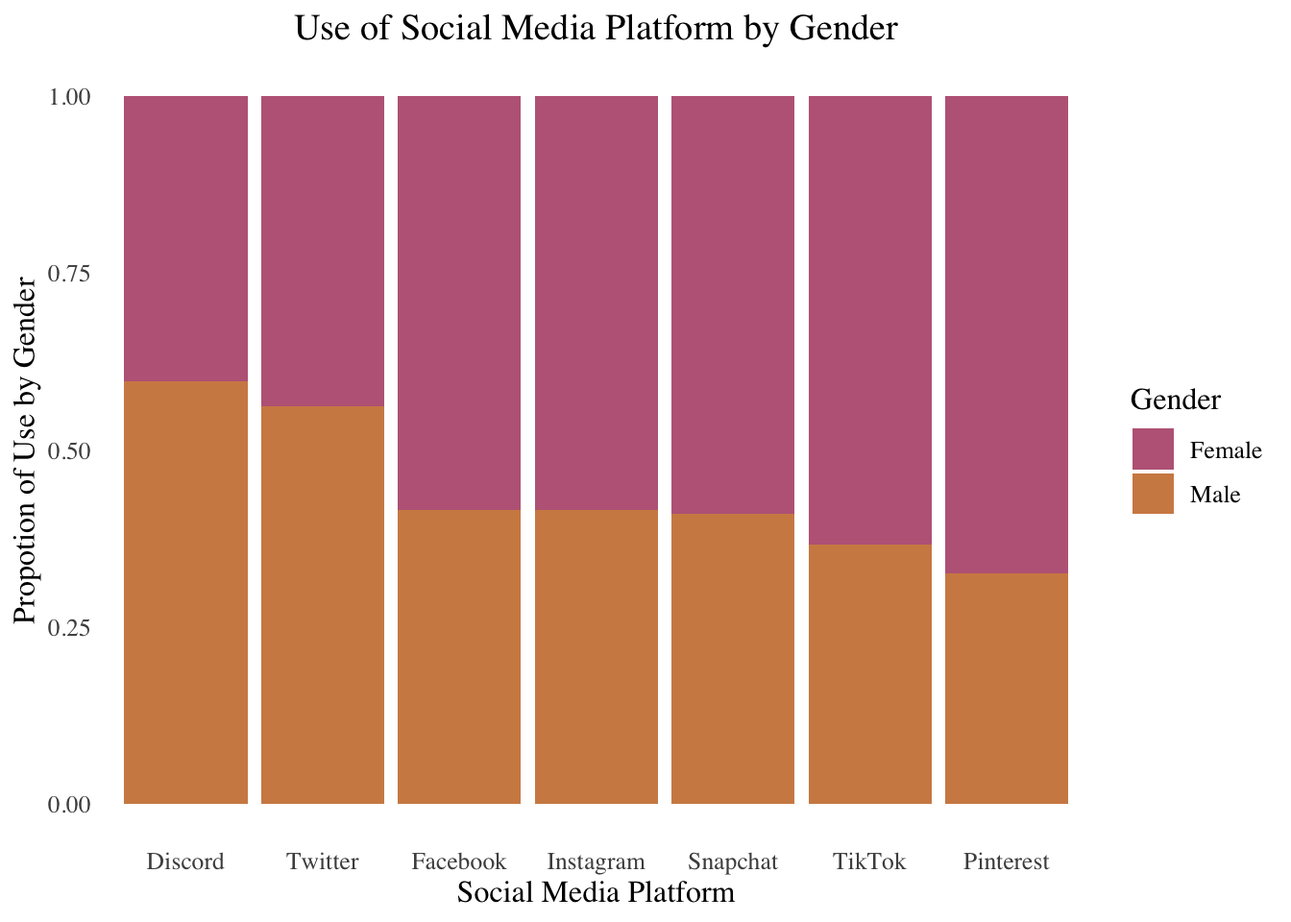
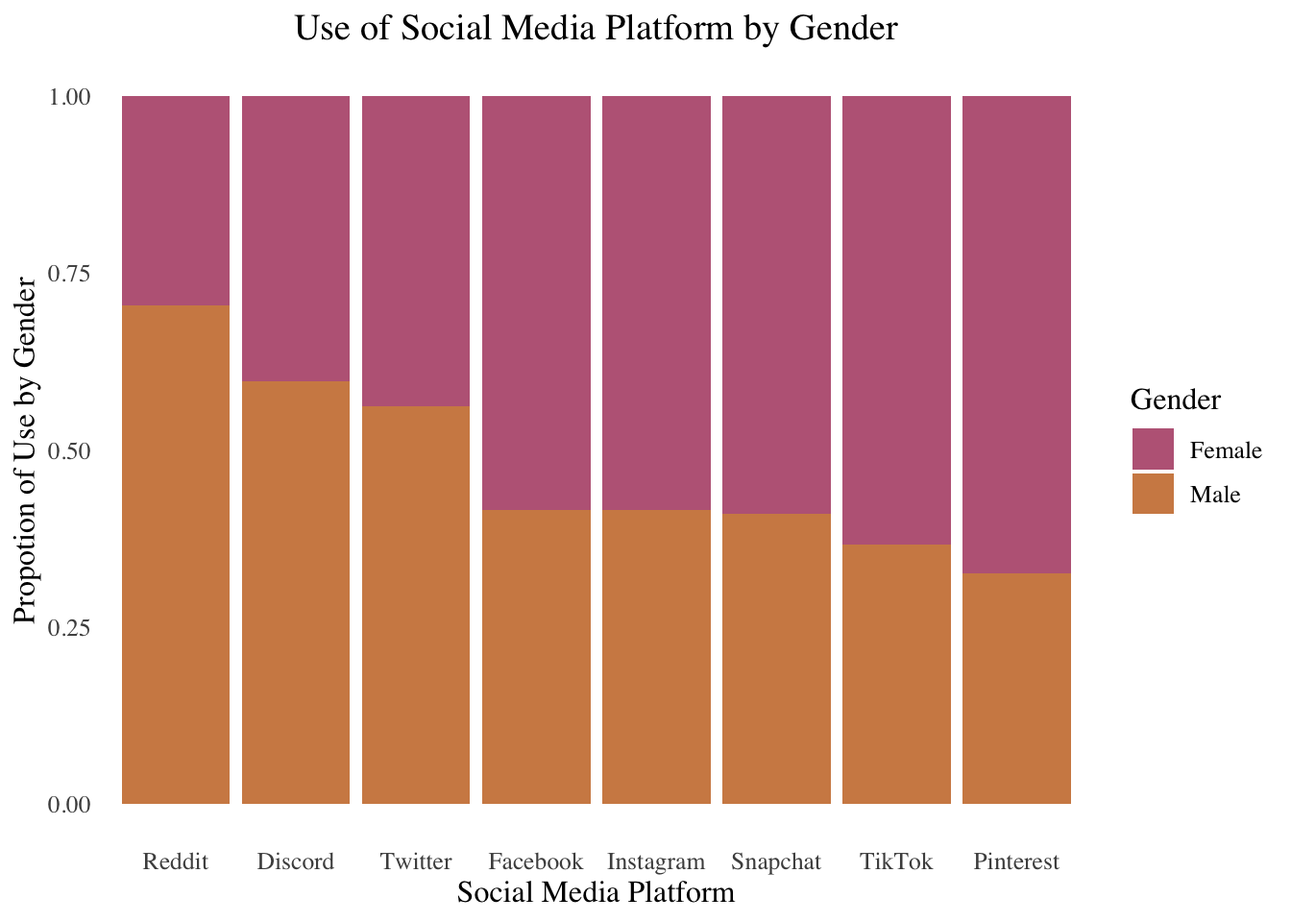
added_reddit

diff --git a/docs/EDA.html b/docs/EDA.html
@@ -283,18 +283,19 @@ dbl (13): 1. What is your age?, 9. How often do you find yourself using Soci...
 <span id="cb7-8"><a href="#cb7-8"></a>  <span class="fu">mutate</span>(<span class="at">yt=</span><span class="fu">str_detect</span>(App, <span class="st">'YouTube'</span>))<span class="sc">%&gt;%</span></span>
 <span id="cb7-9"><a href="#cb7-9"></a>  <span class="fu">mutate</span>(<span class="at">sc=</span><span class="fu">str_detect</span>(App, <span class="st">'Snapchat'</span>))<span class="sc">%&gt;%</span></span>
 <span id="cb7-10"><a href="#cb7-10"></a>  <span class="fu">mutate</span>(<span class="at">pi=</span><span class="fu">str_detect</span>(App, <span class="st">'Pinterest'</span>))<span class="sc">%&gt;%</span></span>
-<span id="cb7-11"><a href="#cb7-11"></a>  <span class="fu">group_by</span>(Gender)<span class="sc">%&gt;%</span></span>
-<span id="cb7-12"><a href="#cb7-12"></a>  <span class="fu">summarize</span>(<span class="at">Instagram=</span><span class="fu">sum</span>(ig), <span class="at">Facebook=</span><span class="fu">sum</span>(fb), <span class="at">Twitter=</span><span class="fu">sum</span>(tw), <span class="at">TikTok=</span><span class="fu">sum</span>(tt), <span class="at">Discord=</span><span class="fu">sum</span>(dc), <span class="at">Snapchat=</span><span class="fu">sum</span>(sc), <span class="at">Pinterest=</span><span class="fu">sum</span>(pi))<span class="sc">%&gt;%</span></span>
-<span id="cb7-13"><a href="#cb7-13"></a>  <span class="fu">filter</span>(Gender <span class="sc">%in%</span> <span class="fu">c</span>(<span class="st">'Female'</span>, <span class="st">'Male'</span>))<span class="sc">%&gt;%</span></span>
-<span id="cb7-14"><a href="#cb7-14"></a>  <span class="fu">pivot_longer</span>(<span class="at">cols =</span> <span class="sc">-</span>Gender, <span class="at">names_to =</span> <span class="st">"Platform"</span>, <span class="at">values_to =</span> <span class="st">"count"</span>)<span class="sc">%&gt;%</span></span>
-<span id="cb7-15"><a href="#cb7-15"></a>  <span class="fu">mutate</span>(<span class="at">Platform =</span> <span class="fu">fct_relevel</span>(Platform, <span class="fu">c</span>( <span class="st">'Discord'</span>, <span class="st">'Twitter'</span>,  <span class="st">'Facebook'</span>, <span class="st">'Instagram'</span>, <span class="st">'Snapchat'</span>, <span class="st">'TikTok'</span>,<span class="st">'Pinterest'</span>)))<span class="sc">%&gt;%</span></span>
-<span id="cb7-16"><a href="#cb7-16"></a>  <span class="fu">ggplot</span>(<span class="fu">aes</span>(<span class="at">x=</span>Platform, <span class="at">fill=</span>Gender, <span class="at">y=</span>count))<span class="sc">+</span></span>
-<span id="cb7-17"><a href="#cb7-17"></a>  <span class="fu">geom_bar</span>(<span class="at">stat =</span> <span class="st">"identity"</span>, <span class="at">position=</span><span class="st">'fill'</span> , <span class="at">alpha=</span><span class="fl">0.85</span>)<span class="sc">+</span></span>
-<span id="cb7-18"><a href="#cb7-18"></a>  <span class="fu">labs</span>(<span class="at">x=</span><span class="st">'Social Media Platform'</span>, <span class="at">y=</span><span class="st">'Propotion of Use by Gender'</span>, <span class="at">title=</span><span class="st">'Use of Social Media Platform by Gender'</span>)<span class="sc">+</span></span>
-<span id="cb7-19"><a href="#cb7-19"></a>  <span class="fu">theme_minimal</span>()<span class="sc">+</span></span>
-<span id="cb7-20"><a href="#cb7-20"></a>  <span class="fu">scale_fill_manual</span>(<span class="at">values =</span> <span class="fu">c</span>(<span class="st">"Female"</span> <span class="ot">=</span> <span class="st">"#B0476E"</span>, <span class="st">"Male"</span> <span class="ot">=</span> <span class="st">"#C9732A"</span>)) <span class="sc">+</span></span>
-<span id="cb7-21"><a href="#cb7-21"></a>  <span class="fu">theme</span>(<span class="at">text =</span> <span class="fu">element_text</span>(<span class="at">hjust =</span> <span class="fl">0.5</span>, <span class="at">size=</span><span class="dv">12</span>, <span class="at">family=</span><span class="st">'serif'</span>), <span class="at">plot.title=</span><span class="fu">element_text</span>(<span class="at">hjust =</span> <span class="fl">0.5</span>))<span class="sc">+</span></span>
-<span id="cb7-22"><a href="#cb7-22"></a>  <span class="fu">theme</span>(<span class="at">panel.grid.major =</span> <span class="fu">element_blank</span>(), <span class="at">panel.grid.minor =</span> <span class="fu">element_blank</span>())</span></code><button title="Copy to Clipboard" class="code-copy-button"><i class="bi"></i></button></pre></div>
+<span id="cb7-11"><a href="#cb7-11"></a>  <span class="fu">mutate</span>(<span class="at">re=</span><span class="fu">str_detect</span>(App, <span class="st">'Reddit'</span>))<span class="sc">%&gt;%</span></span>
+<span id="cb7-12"><a href="#cb7-12"></a>  <span class="fu">group_by</span>(Gender)<span class="sc">%&gt;%</span></span>
+<span id="cb7-13"><a href="#cb7-13"></a>  <span class="fu">summarize</span>(<span class="at">Instagram=</span><span class="fu">sum</span>(ig), <span class="at">Facebook=</span><span class="fu">sum</span>(fb), <span class="at">Twitter=</span><span class="fu">sum</span>(tw), <span class="at">TikTok=</span><span class="fu">sum</span>(tt), <span class="at">Discord=</span><span class="fu">sum</span>(dc), <span class="at">Snapchat=</span><span class="fu">sum</span>(sc), <span class="at">Pinterest=</span><span class="fu">sum</span>(pi), <span class="at">Reddit=</span><span class="fu">sum</span>(re))<span class="sc">%&gt;%</span></span>
+<span id="cb7-14"><a href="#cb7-14"></a>  <span class="fu">filter</span>(Gender <span class="sc">%in%</span> <span class="fu">c</span>(<span class="st">'Female'</span>, <span class="st">'Male'</span>))<span class="sc">%&gt;%</span></span>
+<span id="cb7-15"><a href="#cb7-15"></a>  <span class="fu">pivot_longer</span>(<span class="at">cols =</span> <span class="sc">-</span>Gender, <span class="at">names_to =</span> <span class="st">"Platform"</span>, <span class="at">values_to =</span> <span class="st">"count"</span>)<span class="sc">%&gt;%</span></span>
+<span id="cb7-16"><a href="#cb7-16"></a>  <span class="fu">mutate</span>(<span class="at">Platform =</span> <span class="fu">fct_relevel</span>(Platform, <span class="fu">c</span>( <span class="st">'Reddit'</span>, <span class="st">'Discord'</span>, <span class="st">'Twitter'</span>,  <span class="st">'Facebook'</span>, <span class="st">'Instagram'</span>, <span class="st">'Snapchat'</span>, <span class="st">'TikTok'</span>,<span class="st">'Pinterest'</span>)))<span class="sc">%&gt;%</span></span>
+<span id="cb7-17"><a href="#cb7-17"></a>  <span class="fu">ggplot</span>(<span class="fu">aes</span>(<span class="at">x=</span>Platform, <span class="at">fill=</span>Gender, <span class="at">y=</span>count))<span class="sc">+</span></span>
+<span id="cb7-18"><a href="#cb7-18"></a>  <span class="fu">geom_bar</span>(<span class="at">stat =</span> <span class="st">"identity"</span>, <span class="at">position=</span><span class="st">'fill'</span> , <span class="at">alpha=</span><span class="fl">0.85</span>)<span class="sc">+</span></span>
+<span id="cb7-19"><a href="#cb7-19"></a>  <span class="fu">labs</span>(<span class="at">x=</span><span class="st">'Social Media Platform'</span>, <span class="at">y=</span><span class="st">'Propotion of Use by Gender'</span>, <span class="at">title=</span><span class="st">'Use of Social Media Platform by Gender'</span>)<span class="sc">+</span></span>
+<span id="cb7-20"><a href="#cb7-20"></a>  <span class="fu">theme_minimal</span>()<span class="sc">+</span></span>
+<span id="cb7-21"><a href="#cb7-21"></a>  <span class="fu">scale_fill_manual</span>(<span class="at">values =</span> <span class="fu">c</span>(<span class="st">"Female"</span> <span class="ot">=</span> <span class="st">"#B0476E"</span>, <span class="st">"Male"</span> <span class="ot">=</span> <span class="st">"#C9732A"</span>)) <span class="sc">+</span></span>
+<span id="cb7-22"><a href="#cb7-22"></a>  <span class="fu">theme</span>(<span class="at">text =</span> <span class="fu">element_text</span>(<span class="at">hjust =</span> <span class="fl">0.5</span>, <span class="at">size=</span><span class="dv">12</span>, <span class="at">family=</span><span class="st">'serif'</span>), <span class="at">plot.title=</span><span class="fu">element_text</span>(<span class="at">hjust =</span> <span class="fl">0.5</span>))<span class="sc">+</span></span>
+<span id="cb7-23"><a href="#cb7-23"></a>  <span class="fu">theme</span>(<span class="at">panel.grid.major =</span> <span class="fu">element_blank</span>(), <span class="at">panel.grid.minor =</span> <span class="fu">element_blank</span>())</span></code><button title="Copy to Clipboard" class="code-copy-button"><i class="bi"></i></button></pre></div>
 <div class="cell-output-display">
 <div>
 <figure class="figure">
@@ -992,85 +993,87 @@ window.document.addEventListener("DOMContentLoaded", function (event) {
 <span id="cb10-13"><a href="#cb10-13"></a>  <span class="fu">rename</span>(<span class="at">Time=</span><span class="st">'8. What is the average time you spend on social media every day?'</span>)<span class="sc">%&gt;%</span></span>
 <span id="cb10-14"><a href="#cb10-14"></a>  <span class="fu">rename</span>(<span class="at">MStat=</span><span class="st">'3. Relationship Status'</span>)</span>
 <span id="cb10-15"><a href="#cb10-15"></a><span class="in">```</span></span>
-<span id="cb10-18"><a href="#cb10-18"></a><span class="in">```{r}</span></span>
-<span id="cb10-19"><a href="#cb10-19"></a><span class="co">#Most used </span></span>
-<span id="cb10-20"><a href="#cb10-20"></a>media<span class="sc">%&gt;%</span></span>
-<span id="cb10-21"><a href="#cb10-21"></a>  <span class="fu">mutate</span>(<span class="at">App =</span> <span class="fu">str_extract</span>(App, <span class="st">"^[^,]+"</span>))<span class="sc">%&gt;%</span></span>
-<span id="cb10-22"><a href="#cb10-22"></a>  <span class="fu">filter</span>(Gender <span class="sc">%in%</span> <span class="fu">c</span>(<span class="st">'Female'</span>, <span class="st">'Male'</span>))<span class="sc">%&gt;%</span></span>
-<span id="cb10-23"><a href="#cb10-23"></a>   <span class="fu">mutate</span>(<span class="at">App =</span> <span class="fu">fct_relevel</span>(App, <span class="fu">c</span>(<span class="st">'Reddit'</span>, <span class="st">'Discord'</span>, <span class="st">'YouTube'</span>,  <span class="st">'Instagram'</span>, <span class="st">'Twitter'</span>, <span class="st">'Pinterest'</span>, <span class="st">'Facebook'</span>)))<span class="sc">%&gt;%</span></span>
-<span id="cb10-24"><a href="#cb10-24"></a>  <span class="fu">ggplot</span>(<span class="fu">aes</span>(<span class="at">x=</span>App, <span class="at">fill=</span>Gender))<span class="sc">+</span></span>
-<span id="cb10-25"><a href="#cb10-25"></a>  <span class="fu">geom_bar</span>(<span class="at">position=</span><span class="st">'fill'</span>, <span class="at">alpha=</span><span class="fl">0.85</span>)<span class="sc">+</span></span>
-<span id="cb10-26"><a href="#cb10-26"></a>  <span class="fu">labs</span>(<span class="at">x=</span><span class="st">'Social Media Platform'</span>, <span class="at">y=</span><span class="st">'Propotion of Use by Gender'</span>, <span class="at">title=</span><span class="st">'Use of Social Media Platform by Gender'</span>)<span class="sc">+</span></span>
-<span id="cb10-27"><a href="#cb10-27"></a>  <span class="fu">theme_minimal</span>()<span class="sc">+</span></span>
-<span id="cb10-28"><a href="#cb10-28"></a>  <span class="fu">scale_fill_manual</span>(<span class="at">values =</span> <span class="fu">c</span>(<span class="st">"Female"</span> <span class="ot">=</span> <span class="st">"#B0476E"</span>, <span class="st">"Male"</span> <span class="ot">=</span> <span class="st">"#C9732A"</span>)) <span class="sc">+</span></span>
-<span id="cb10-29"><a href="#cb10-29"></a>  <span class="fu">theme</span>(<span class="at">text =</span> <span class="fu">element_text</span>(<span class="at">hjust =</span> <span class="fl">0.5</span>, <span class="at">size=</span><span class="dv">12</span>, <span class="at">family=</span><span class="st">'serif'</span>), <span class="at">plot.title=</span><span class="fu">element_text</span>(<span class="at">hjust =</span> <span class="fl">0.5</span>))<span class="sc">+</span></span>
-<span id="cb10-30"><a href="#cb10-30"></a>  <span class="fu">theme</span>(<span class="at">panel.grid.major =</span> <span class="fu">element_blank</span>(), <span class="at">panel.grid.minor =</span> <span class="fu">element_blank</span>())</span>
-<span id="cb10-31"><a href="#cb10-31"></a><span class="in">```</span></span>
-<span id="cb10-32"><a href="#cb10-32"></a></span>
-<span id="cb10-35"><a href="#cb10-35"></a><span class="in">```{r}</span></span>
-<span id="cb10-36"><a href="#cb10-36"></a><span class="co">#Total </span></span>
-<span id="cb10-37"><a href="#cb10-37"></a>media <span class="sc">%&gt;%</span> </span>
-<span id="cb10-38"><a href="#cb10-38"></a>  <span class="fu">mutate</span>(<span class="at">ig =</span> <span class="fu">str_detect</span>(App, <span class="st">'Instagram'</span>)) <span class="sc">%&gt;%</span> </span>
-<span id="cb10-39"><a href="#cb10-39"></a>  <span class="fu">mutate</span>(<span class="at">fb=</span><span class="fu">str_detect</span>(App, <span class="st">'Facebook'</span>))<span class="sc">%&gt;%</span></span>
-<span id="cb10-40"><a href="#cb10-40"></a>  <span class="fu">mutate</span>(<span class="at">tw =</span><span class="fu">str_detect</span>(App, <span class="st">'Twitter'</span>))<span class="sc">%&gt;%</span></span>
-<span id="cb10-41"><a href="#cb10-41"></a>  <span class="fu">mutate</span>(<span class="at">tt=</span><span class="fu">str_detect</span>(App, <span class="st">'TikTok'</span>))<span class="sc">%&gt;%</span></span>
-<span id="cb10-42"><a href="#cb10-42"></a>  <span class="fu">mutate</span>(<span class="at">dc =</span><span class="fu">str_detect</span>(App, <span class="st">'Discord'</span>))<span class="sc">%&gt;%</span></span>
-<span id="cb10-43"><a href="#cb10-43"></a>  <span class="fu">mutate</span>(<span class="at">yt=</span><span class="fu">str_detect</span>(App, <span class="st">'YouTube'</span>))<span class="sc">%&gt;%</span></span>
-<span id="cb10-44"><a href="#cb10-44"></a>  <span class="fu">mutate</span>(<span class="at">sc=</span><span class="fu">str_detect</span>(App, <span class="st">'Snapchat'</span>))<span class="sc">%&gt;%</span></span>
-<span id="cb10-45"><a href="#cb10-45"></a>  <span class="fu">mutate</span>(<span class="at">pi=</span><span class="fu">str_detect</span>(App, <span class="st">'Pinterest'</span>))<span class="sc">%&gt;%</span></span>
-<span id="cb10-46"><a href="#cb10-46"></a>  <span class="fu">group_by</span>(Gender)<span class="sc">%&gt;%</span></span>
-<span id="cb10-47"><a href="#cb10-47"></a>  <span class="fu">summarize</span>(<span class="at">Instagram=</span><span class="fu">sum</span>(ig), <span class="at">Facebook=</span><span class="fu">sum</span>(fb), <span class="at">Twitter=</span><span class="fu">sum</span>(tw), <span class="at">TikTok=</span><span class="fu">sum</span>(tt), <span class="at">Discord=</span><span class="fu">sum</span>(dc), <span class="at">Snapchat=</span><span class="fu">sum</span>(sc), <span class="at">Pinterest=</span><span class="fu">sum</span>(pi))<span class="sc">%&gt;%</span></span>
-<span id="cb10-48"><a href="#cb10-48"></a>  <span class="fu">filter</span>(Gender <span class="sc">%in%</span> <span class="fu">c</span>(<span class="st">'Female'</span>, <span class="st">'Male'</span>))<span class="sc">%&gt;%</span></span>
-<span id="cb10-49"><a href="#cb10-49"></a>  <span class="fu">pivot_longer</span>(<span class="at">cols =</span> <span class="sc">-</span>Gender, <span class="at">names_to =</span> <span class="st">"Platform"</span>, <span class="at">values_to =</span> <span class="st">"count"</span>)<span class="sc">%&gt;%</span></span>
-<span id="cb10-50"><a href="#cb10-50"></a>  <span class="fu">mutate</span>(<span class="at">Platform =</span> <span class="fu">fct_relevel</span>(Platform, <span class="fu">c</span>( <span class="st">'Discord'</span>, <span class="st">'Twitter'</span>,  <span class="st">'Facebook'</span>, <span class="st">'Instagram'</span>, <span class="st">'Snapchat'</span>, <span class="st">'TikTok'</span>,<span class="st">'Pinterest'</span>)))<span class="sc">%&gt;%</span></span>
-<span id="cb10-51"><a href="#cb10-51"></a>  <span class="fu">ggplot</span>(<span class="fu">aes</span>(<span class="at">x=</span>Platform, <span class="at">fill=</span>Gender, <span class="at">y=</span>count))<span class="sc">+</span></span>
-<span id="cb10-52"><a href="#cb10-52"></a>  <span class="fu">geom_bar</span>(<span class="at">stat =</span> <span class="st">"identity"</span>, <span class="at">position=</span><span class="st">'fill'</span> , <span class="at">alpha=</span><span class="fl">0.85</span>)<span class="sc">+</span></span>
-<span id="cb10-53"><a href="#cb10-53"></a>  <span class="fu">labs</span>(<span class="at">x=</span><span class="st">'Social Media Platform'</span>, <span class="at">y=</span><span class="st">'Propotion of Use by Gender'</span>, <span class="at">title=</span><span class="st">'Use of Social Media Platform by Gender'</span>)<span class="sc">+</span></span>
-<span id="cb10-54"><a href="#cb10-54"></a>  <span class="fu">theme_minimal</span>()<span class="sc">+</span></span>
-<span id="cb10-55"><a href="#cb10-55"></a>  <span class="fu">scale_fill_manual</span>(<span class="at">values =</span> <span class="fu">c</span>(<span class="st">"Female"</span> <span class="ot">=</span> <span class="st">"#B0476E"</span>, <span class="st">"Male"</span> <span class="ot">=</span> <span class="st">"#C9732A"</span>)) <span class="sc">+</span></span>
-<span id="cb10-56"><a href="#cb10-56"></a>  <span class="fu">theme</span>(<span class="at">text =</span> <span class="fu">element_text</span>(<span class="at">hjust =</span> <span class="fl">0.5</span>, <span class="at">size=</span><span class="dv">12</span>, <span class="at">family=</span><span class="st">'serif'</span>), <span class="at">plot.title=</span><span class="fu">element_text</span>(<span class="at">hjust =</span> <span class="fl">0.5</span>))<span class="sc">+</span></span>
-<span id="cb10-57"><a href="#cb10-57"></a>  <span class="fu">theme</span>(<span class="at">panel.grid.major =</span> <span class="fu">element_blank</span>(), <span class="at">panel.grid.minor =</span> <span class="fu">element_blank</span>())</span>
-<span id="cb10-58"><a href="#cb10-58"></a><span class="in">```</span></span>
-<span id="cb10-59"><a href="#cb10-59"></a></span>
-<span id="cb10-60"><a href="#cb10-60"></a><span class="in">```{r, fig.width=10}</span></span>
-<span id="cb10-61"><a href="#cb10-61"></a><span class="in">#Time used by gender </span></span>
-<span id="cb10-62"><a href="#cb10-62"></a><span class="in">media%&gt;%</span></span>
-<span id="cb10-63"><a href="#cb10-63"></a><span class="in">  filter(Gender %in% c('Female', 'Male'))%&gt;%</span></span>
-<span id="cb10-64"><a href="#cb10-64"></a><span class="in">    mutate(Time=factor(Time))%&gt;%</span></span>
-<span id="cb10-65"><a href="#cb10-65"></a><span class="in">  mutate(Time=fct_relevel(Time, c('Less than an Hour', 'Between 1 and 2 hours', 'Between 2 and 3 hours', 'Between 3 and 4 hours', 'Between 4 and 5 hours', 'More than 5 hours')))%&gt;%</span></span>
-<span id="cb10-66"><a href="#cb10-66"></a><span class="in">  group_by(Gender)%&gt;%</span></span>
-<span id="cb10-67"><a href="#cb10-67"></a><span class="in">  count(Time)%&gt;%</span></span>
-<span id="cb10-68"><a href="#cb10-68"></a><span class="in">  ggplot(aes(x=Time, y=n, fill=Gender))+</span></span>
-<span id="cb10-69"><a href="#cb10-69"></a><span class="in">  geom_bar(stat = "identity", position='fill' , alpha=0.85)+</span></span>
-<span id="cb10-70"><a href="#cb10-70"></a><span class="in">  labs(x='Time spent during the day on Social Media', y='Propotion of Use by Gender', title='Time on Social Media by Gender')+</span></span>
-<span id="cb10-71"><a href="#cb10-71"></a><span class="in">  theme_minimal()+</span></span>
-<span id="cb10-72"><a href="#cb10-72"></a><span class="in">  scale_fill_manual(values = c("Female" = "#B0476E", "Male" = "#C9732A")) +</span></span>
-<span id="cb10-73"><a href="#cb10-73"></a><span class="in">  theme(text = element_text(hjust = 0.5, size=12, family='serif'), plot.title=element_text(hjust = 0.5))+</span></span>
-<span id="cb10-74"><a href="#cb10-74"></a><span class="in">  theme(panel.grid.major = element_blank(), panel.grid.minor = element_blank())</span></span>
-<span id="cb10-75"><a href="#cb10-75"></a><span class="in">```</span></span>
-<span id="cb10-76"><a href="#cb10-76"></a></span>
-<span id="cb10-77"><a href="#cb10-77"></a><span class="in">```{r, fig.width=10}</span></span>
-<span id="cb10-78"><a href="#cb10-78"></a><span class="in">#Time used by marital status </span></span>
-<span id="cb10-79"><a href="#cb10-79"></a><span class="in">media%&gt;%</span></span>
-<span id="cb10-80"><a href="#cb10-80"></a><span class="in">  filter(Gender %in% c('Female', 'Male'))%&gt;%</span></span>
-<span id="cb10-81"><a href="#cb10-81"></a><span class="in">  mutate(Time=factor(Time))%&gt;%</span></span>
-<span id="cb10-82"><a href="#cb10-82"></a><span class="in">  mutate(Time=fct_relevel(Time, c('Less than an Hour', 'Between 1 and 2 hours', 'Between 2 and 3 hours', 'Between 3 and 4 hours', 'Between 4 and 5 hours', 'More than 5 hours')))%&gt;%</span></span>
-<span id="cb10-83"><a href="#cb10-83"></a><span class="in">  group_by(Time)%&gt;%</span></span>
-<span id="cb10-84"><a href="#cb10-84"></a><span class="in">  count(MStat)%&gt;%</span></span>
-<span id="cb10-85"><a href="#cb10-85"></a><span class="in">  ggplot(aes(x=Time, y=n, fill=MStat))+</span></span>
-<span id="cb10-86"><a href="#cb10-86"></a><span class="in">  geom_bar(stat = "identity", alpha=0.85, position='fill')+</span></span>
-<span id="cb10-87"><a href="#cb10-87"></a><span class="in">  labs(x='Time Spent on Social Media', y='Propotion of Use by Marital Status', title='Time on Social Media by Marital Status', MStat='Marital Status')+</span></span>
-<span id="cb10-88"><a href="#cb10-88"></a><span class="in">  theme_minimal()+</span></span>
-<span id="cb10-89"><a href="#cb10-89"></a><span class="in">  scale_fill_manual(values = c("Divorced" = "#B0476E", "Married" = "#C9732A", 'Single' = '#3C7D3F', 'In a relationship' = '#4679B3')) +</span></span>
-<span id="cb10-90"><a href="#cb10-90"></a><span class="in">  theme(text = element_text(hjust = 0.5, size=12, family='serif'), plot.title=element_text(hjust = 0.5))+</span></span>
-<span id="cb10-91"><a href="#cb10-91"></a><span class="in">  theme(panel.grid.major = element_blank(), panel.grid.minor = element_blank())</span></span>
-<span id="cb10-92"><a href="#cb10-92"></a><span class="in">```</span></span>
-<span id="cb10-93"><a href="#cb10-93"></a></span>
-<span id="cb10-94"><a href="#cb10-94"></a></span>
+<span id="cb10-16"><a href="#cb10-16"></a></span>
+<span id="cb10-19"><a href="#cb10-19"></a><span class="in">```{r}</span></span>
+<span id="cb10-20"><a href="#cb10-20"></a><span class="co">#Most used </span></span>
+<span id="cb10-21"><a href="#cb10-21"></a>media<span class="sc">%&gt;%</span></span>
+<span id="cb10-22"><a href="#cb10-22"></a>  <span class="fu">mutate</span>(<span class="at">App =</span> <span class="fu">str_extract</span>(App, <span class="st">"^[^,]+"</span>))<span class="sc">%&gt;%</span></span>
+<span id="cb10-23"><a href="#cb10-23"></a>  <span class="fu">filter</span>(Gender <span class="sc">%in%</span> <span class="fu">c</span>(<span class="st">'Female'</span>, <span class="st">'Male'</span>))<span class="sc">%&gt;%</span></span>
+<span id="cb10-24"><a href="#cb10-24"></a>   <span class="fu">mutate</span>(<span class="at">App =</span> <span class="fu">fct_relevel</span>(App, <span class="fu">c</span>(<span class="st">'Reddit'</span>, <span class="st">'Discord'</span>, <span class="st">'YouTube'</span>,  <span class="st">'Instagram'</span>, <span class="st">'Twitter'</span>, <span class="st">'Pinterest'</span>, <span class="st">'Facebook'</span>)))<span class="sc">%&gt;%</span></span>
+<span id="cb10-25"><a href="#cb10-25"></a>  <span class="fu">ggplot</span>(<span class="fu">aes</span>(<span class="at">x=</span>App, <span class="at">fill=</span>Gender))<span class="sc">+</span></span>
+<span id="cb10-26"><a href="#cb10-26"></a>  <span class="fu">geom_bar</span>(<span class="at">position=</span><span class="st">'fill'</span>, <span class="at">alpha=</span><span class="fl">0.85</span>)<span class="sc">+</span></span>
+<span id="cb10-27"><a href="#cb10-27"></a>  <span class="fu">labs</span>(<span class="at">x=</span><span class="st">'Social Media Platform'</span>, <span class="at">y=</span><span class="st">'Propotion of Use by Gender'</span>, <span class="at">title=</span><span class="st">'Use of Social Media Platform by Gender'</span>)<span class="sc">+</span></span>
+<span id="cb10-28"><a href="#cb10-28"></a>  <span class="fu">theme_minimal</span>()<span class="sc">+</span></span>
+<span id="cb10-29"><a href="#cb10-29"></a>  <span class="fu">scale_fill_manual</span>(<span class="at">values =</span> <span class="fu">c</span>(<span class="st">"Female"</span> <span class="ot">=</span> <span class="st">"#B0476E"</span>, <span class="st">"Male"</span> <span class="ot">=</span> <span class="st">"#C9732A"</span>)) <span class="sc">+</span></span>
+<span id="cb10-30"><a href="#cb10-30"></a>  <span class="fu">theme</span>(<span class="at">text =</span> <span class="fu">element_text</span>(<span class="at">hjust =</span> <span class="fl">0.5</span>, <span class="at">size=</span><span class="dv">12</span>, <span class="at">family=</span><span class="st">'serif'</span>), <span class="at">plot.title=</span><span class="fu">element_text</span>(<span class="at">hjust =</span> <span class="fl">0.5</span>))<span class="sc">+</span></span>
+<span id="cb10-31"><a href="#cb10-31"></a>  <span class="fu">theme</span>(<span class="at">panel.grid.major =</span> <span class="fu">element_blank</span>(), <span class="at">panel.grid.minor =</span> <span class="fu">element_blank</span>())</span>
+<span id="cb10-32"><a href="#cb10-32"></a><span class="in">```</span></span>
+<span id="cb10-33"><a href="#cb10-33"></a></span>
+<span id="cb10-36"><a href="#cb10-36"></a><span class="in">```{r}</span></span>
+<span id="cb10-37"><a href="#cb10-37"></a><span class="co">#Total </span></span>
+<span id="cb10-38"><a href="#cb10-38"></a>media <span class="sc">%&gt;%</span> </span>
+<span id="cb10-39"><a href="#cb10-39"></a>  <span class="fu">mutate</span>(<span class="at">ig =</span> <span class="fu">str_detect</span>(App, <span class="st">'Instagram'</span>)) <span class="sc">%&gt;%</span> </span>
+<span id="cb10-40"><a href="#cb10-40"></a>  <span class="fu">mutate</span>(<span class="at">fb=</span><span class="fu">str_detect</span>(App, <span class="st">'Facebook'</span>))<span class="sc">%&gt;%</span></span>
+<span id="cb10-41"><a href="#cb10-41"></a>  <span class="fu">mutate</span>(<span class="at">tw =</span><span class="fu">str_detect</span>(App, <span class="st">'Twitter'</span>))<span class="sc">%&gt;%</span></span>
+<span id="cb10-42"><a href="#cb10-42"></a>  <span class="fu">mutate</span>(<span class="at">tt=</span><span class="fu">str_detect</span>(App, <span class="st">'TikTok'</span>))<span class="sc">%&gt;%</span></span>
+<span id="cb10-43"><a href="#cb10-43"></a>  <span class="fu">mutate</span>(<span class="at">dc =</span><span class="fu">str_detect</span>(App, <span class="st">'Discord'</span>))<span class="sc">%&gt;%</span></span>
+<span id="cb10-44"><a href="#cb10-44"></a>  <span class="fu">mutate</span>(<span class="at">yt=</span><span class="fu">str_detect</span>(App, <span class="st">'YouTube'</span>))<span class="sc">%&gt;%</span></span>
+<span id="cb10-45"><a href="#cb10-45"></a>  <span class="fu">mutate</span>(<span class="at">sc=</span><span class="fu">str_detect</span>(App, <span class="st">'Snapchat'</span>))<span class="sc">%&gt;%</span></span>
+<span id="cb10-46"><a href="#cb10-46"></a>  <span class="fu">mutate</span>(<span class="at">pi=</span><span class="fu">str_detect</span>(App, <span class="st">'Pinterest'</span>))<span class="sc">%&gt;%</span></span>
+<span id="cb10-47"><a href="#cb10-47"></a>  <span class="fu">mutate</span>(<span class="at">re=</span><span class="fu">str_detect</span>(App, <span class="st">'Reddit'</span>))<span class="sc">%&gt;%</span></span>
+<span id="cb10-48"><a href="#cb10-48"></a>  <span class="fu">group_by</span>(Gender)<span class="sc">%&gt;%</span></span>
+<span id="cb10-49"><a href="#cb10-49"></a>  <span class="fu">summarize</span>(<span class="at">Instagram=</span><span class="fu">sum</span>(ig), <span class="at">Facebook=</span><span class="fu">sum</span>(fb), <span class="at">Twitter=</span><span class="fu">sum</span>(tw), <span class="at">TikTok=</span><span class="fu">sum</span>(tt), <span class="at">Discord=</span><span class="fu">sum</span>(dc), <span class="at">Snapchat=</span><span class="fu">sum</span>(sc), <span class="at">Pinterest=</span><span class="fu">sum</span>(pi), <span class="at">Reddit=</span><span class="fu">sum</span>(re))<span class="sc">%&gt;%</span></span>
+<span id="cb10-50"><a href="#cb10-50"></a>  <span class="fu">filter</span>(Gender <span class="sc">%in%</span> <span class="fu">c</span>(<span class="st">'Female'</span>, <span class="st">'Male'</span>))<span class="sc">%&gt;%</span></span>
+<span id="cb10-51"><a href="#cb10-51"></a>  <span class="fu">pivot_longer</span>(<span class="at">cols =</span> <span class="sc">-</span>Gender, <span class="at">names_to =</span> <span class="st">"Platform"</span>, <span class="at">values_to =</span> <span class="st">"count"</span>)<span class="sc">%&gt;%</span></span>
+<span id="cb10-52"><a href="#cb10-52"></a>  <span class="fu">mutate</span>(<span class="at">Platform =</span> <span class="fu">fct_relevel</span>(Platform, <span class="fu">c</span>( <span class="st">'Reddit'</span>, <span class="st">'Discord'</span>, <span class="st">'Twitter'</span>,  <span class="st">'Facebook'</span>, <span class="st">'Instagram'</span>, <span class="st">'Snapchat'</span>, <span class="st">'TikTok'</span>,<span class="st">'Pinterest'</span>)))<span class="sc">%&gt;%</span></span>
+<span id="cb10-53"><a href="#cb10-53"></a>  <span class="fu">ggplot</span>(<span class="fu">aes</span>(<span class="at">x=</span>Platform, <span class="at">fill=</span>Gender, <span class="at">y=</span>count))<span class="sc">+</span></span>
+<span id="cb10-54"><a href="#cb10-54"></a>  <span class="fu">geom_bar</span>(<span class="at">stat =</span> <span class="st">"identity"</span>, <span class="at">position=</span><span class="st">'fill'</span> , <span class="at">alpha=</span><span class="fl">0.85</span>)<span class="sc">+</span></span>
+<span id="cb10-55"><a href="#cb10-55"></a>  <span class="fu">labs</span>(<span class="at">x=</span><span class="st">'Social Media Platform'</span>, <span class="at">y=</span><span class="st">'Propotion of Use by Gender'</span>, <span class="at">title=</span><span class="st">'Use of Social Media Platform by Gender'</span>)<span class="sc">+</span></span>
+<span id="cb10-56"><a href="#cb10-56"></a>  <span class="fu">theme_minimal</span>()<span class="sc">+</span></span>
+<span id="cb10-57"><a href="#cb10-57"></a>  <span class="fu">scale_fill_manual</span>(<span class="at">values =</span> <span class="fu">c</span>(<span class="st">"Female"</span> <span class="ot">=</span> <span class="st">"#B0476E"</span>, <span class="st">"Male"</span> <span class="ot">=</span> <span class="st">"#C9732A"</span>)) <span class="sc">+</span></span>
+<span id="cb10-58"><a href="#cb10-58"></a>  <span class="fu">theme</span>(<span class="at">text =</span> <span class="fu">element_text</span>(<span class="at">hjust =</span> <span class="fl">0.5</span>, <span class="at">size=</span><span class="dv">12</span>, <span class="at">family=</span><span class="st">'serif'</span>), <span class="at">plot.title=</span><span class="fu">element_text</span>(<span class="at">hjust =</span> <span class="fl">0.5</span>))<span class="sc">+</span></span>
+<span id="cb10-59"><a href="#cb10-59"></a>  <span class="fu">theme</span>(<span class="at">panel.grid.major =</span> <span class="fu">element_blank</span>(), <span class="at">panel.grid.minor =</span> <span class="fu">element_blank</span>())</span>
+<span id="cb10-60"><a href="#cb10-60"></a><span class="in">```</span></span>
+<span id="cb10-61"><a href="#cb10-61"></a></span>
+<span id="cb10-62"><a href="#cb10-62"></a><span class="in">```{r, fig.width=10}</span></span>
+<span id="cb10-63"><a href="#cb10-63"></a><span class="in">#Time used by gender </span></span>
+<span id="cb10-64"><a href="#cb10-64"></a><span class="in">media%&gt;%</span></span>
+<span id="cb10-65"><a href="#cb10-65"></a><span class="in">  filter(Gender %in% c('Female', 'Male'))%&gt;%</span></span>
+<span id="cb10-66"><a href="#cb10-66"></a><span class="in">    mutate(Time=factor(Time))%&gt;%</span></span>
+<span id="cb10-67"><a href="#cb10-67"></a><span class="in">  mutate(Time=fct_relevel(Time, c('Less than an Hour', 'Between 1 and 2 hours', 'Between 2 and 3 hours', 'Between 3 and 4 hours', 'Between 4 and 5 hours', 'More than 5 hours')))%&gt;%</span></span>
+<span id="cb10-68"><a href="#cb10-68"></a><span class="in">  group_by(Gender)%&gt;%</span></span>
+<span id="cb10-69"><a href="#cb10-69"></a><span class="in">  count(Time)%&gt;%</span></span>
+<span id="cb10-70"><a href="#cb10-70"></a><span class="in">  ggplot(aes(x=Time, y=n, fill=Gender))+</span></span>
+<span id="cb10-71"><a href="#cb10-71"></a><span class="in">  geom_bar(stat = "identity", position='fill' , alpha=0.85)+</span></span>
+<span id="cb10-72"><a href="#cb10-72"></a><span class="in">  labs(x='Time spent during the day on Social Media', y='Propotion of Use by Gender', title='Time on Social Media by Gender')+</span></span>
+<span id="cb10-73"><a href="#cb10-73"></a><span class="in">  theme_minimal()+</span></span>
+<span id="cb10-74"><a href="#cb10-74"></a><span class="in">  scale_fill_manual(values = c("Female" = "#B0476E", "Male" = "#C9732A")) +</span></span>
+<span id="cb10-75"><a href="#cb10-75"></a><span class="in">  theme(text = element_text(hjust = 0.5, size=12, family='serif'), plot.title=element_text(hjust = 0.5))+</span></span>
+<span id="cb10-76"><a href="#cb10-76"></a><span class="in">  theme(panel.grid.major = element_blank(), panel.grid.minor = element_blank())</span></span>
+<span id="cb10-77"><a href="#cb10-77"></a><span class="in">```</span></span>
+<span id="cb10-78"><a href="#cb10-78"></a></span>
+<span id="cb10-79"><a href="#cb10-79"></a><span class="in">```{r, fig.width=10}</span></span>
+<span id="cb10-80"><a href="#cb10-80"></a><span class="in">#Time used by marital status </span></span>
+<span id="cb10-81"><a href="#cb10-81"></a><span class="in">media%&gt;%</span></span>
+<span id="cb10-82"><a href="#cb10-82"></a><span class="in">  filter(Gender %in% c('Female', 'Male'))%&gt;%</span></span>
+<span id="cb10-83"><a href="#cb10-83"></a><span class="in">  mutate(Time=factor(Time))%&gt;%</span></span>
+<span id="cb10-84"><a href="#cb10-84"></a><span class="in">  mutate(Time=fct_relevel(Time, c('Less than an Hour', 'Between 1 and 2 hours', 'Between 2 and 3 hours', 'Between 3 and 4 hours', 'Between 4 and 5 hours', 'More than 5 hours')))%&gt;%</span></span>
+<span id="cb10-85"><a href="#cb10-85"></a><span class="in">  group_by(Time)%&gt;%</span></span>
+<span id="cb10-86"><a href="#cb10-86"></a><span class="in">  count(MStat)%&gt;%</span></span>
+<span id="cb10-87"><a href="#cb10-87"></a><span class="in">  ggplot(aes(x=Time, y=n, fill=MStat))+</span></span>
+<span id="cb10-88"><a href="#cb10-88"></a><span class="in">  geom_bar(stat = "identity", alpha=0.85, position='fill')+</span></span>
+<span id="cb10-89"><a href="#cb10-89"></a><span class="in">  labs(x='Time Spent on Social Media', y='Propotion of Use by Marital Status', title='Time on Social Media by Marital Status', MStat='Marital Status')+</span></span>
+<span id="cb10-90"><a href="#cb10-90"></a><span class="in">  theme_minimal()+</span></span>
+<span id="cb10-91"><a href="#cb10-91"></a><span class="in">  scale_fill_manual(values = c("Divorced" = "#B0476E", "Married" = "#C9732A", 'Single' = '#3C7D3F', 'In a relationship' = '#4679B3')) +</span></span>
+<span id="cb10-92"><a href="#cb10-92"></a><span class="in">  theme(text = element_text(hjust = 0.5, size=12, family='serif'), plot.title=element_text(hjust = 0.5))+</span></span>
+<span id="cb10-93"><a href="#cb10-93"></a><span class="in">  theme(panel.grid.major = element_blank(), panel.grid.minor = element_blank())</span></span>
+<span id="cb10-94"><a href="#cb10-94"></a><span class="in">```</span></span>
 <span id="cb10-95"><a href="#cb10-95"></a></span>
 <span id="cb10-96"><a href="#cb10-96"></a></span>
 <span id="cb10-97"><a href="#cb10-97"></a></span>
 <span id="cb10-98"><a href="#cb10-98"></a></span>
+<span id="cb10-99"><a href="#cb10-99"></a></span>
+<span id="cb10-100"><a href="#cb10-100"></a></span>
 </code><button title="Copy to Clipboard" class="code-copy-button" data-in-quarto-modal=""><i class="bi"></i></button></pre></div>
 </div></div></div></div></div>
 </div> <!-- /content -->
